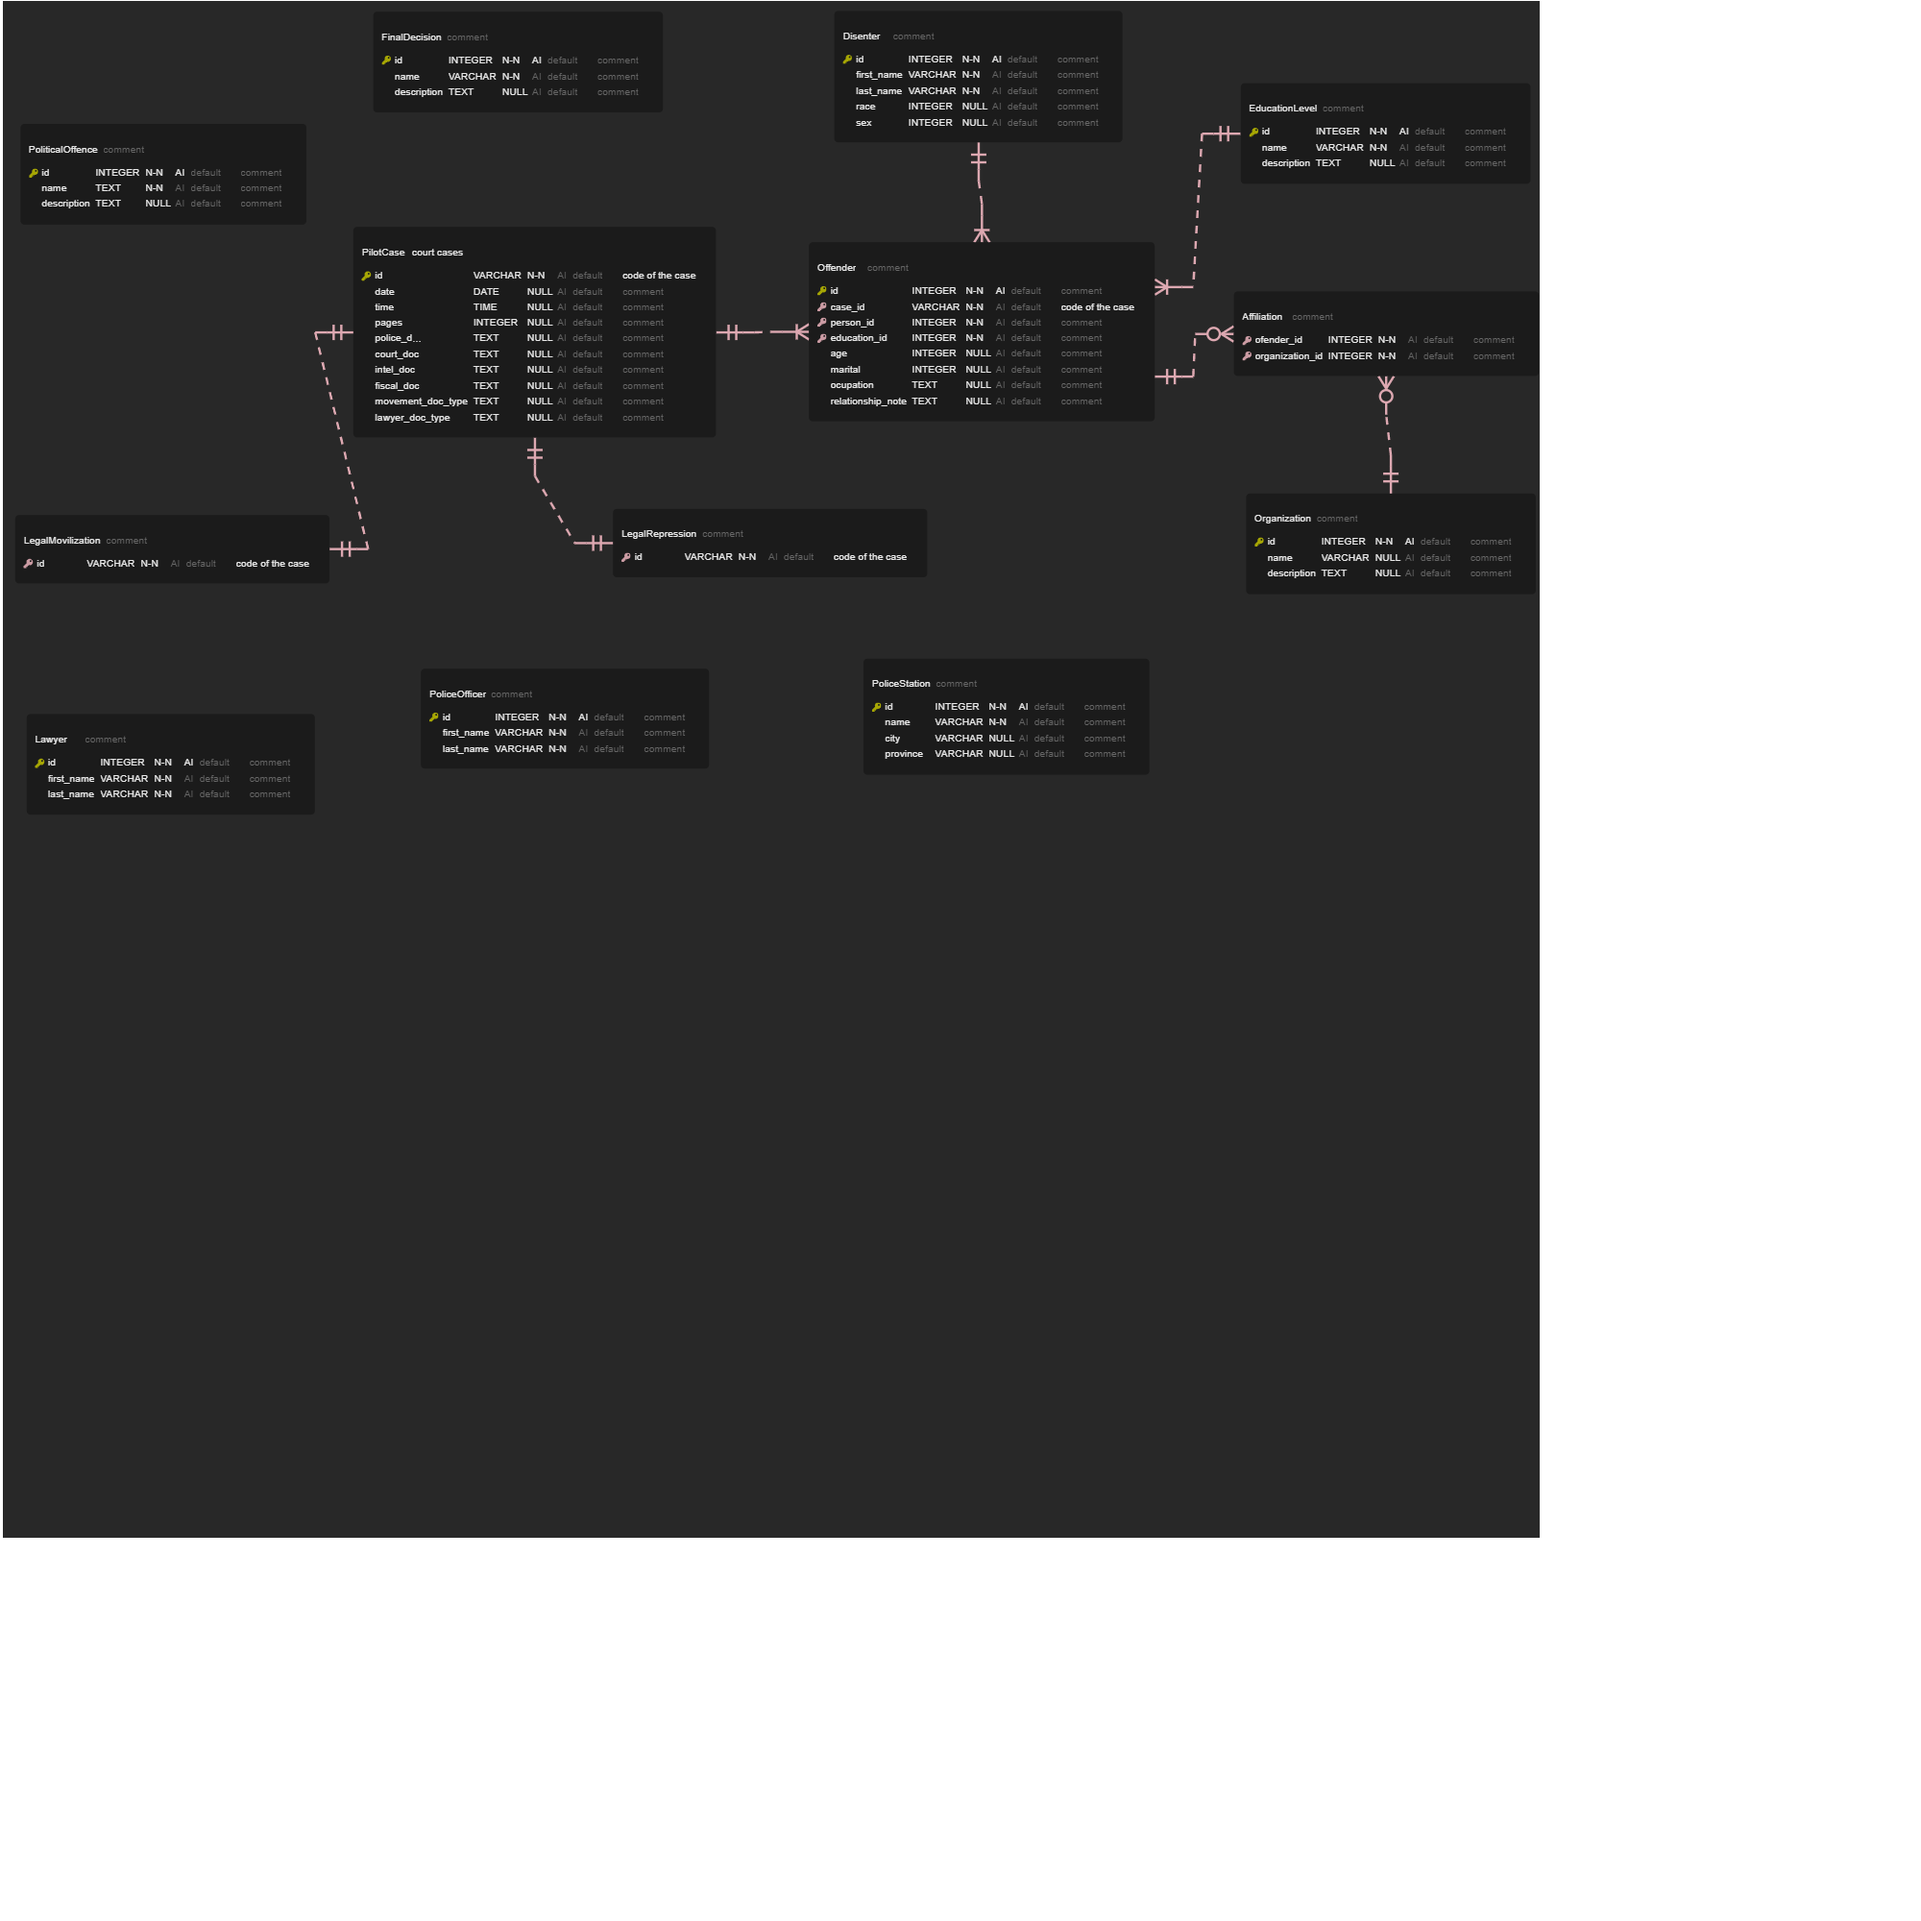
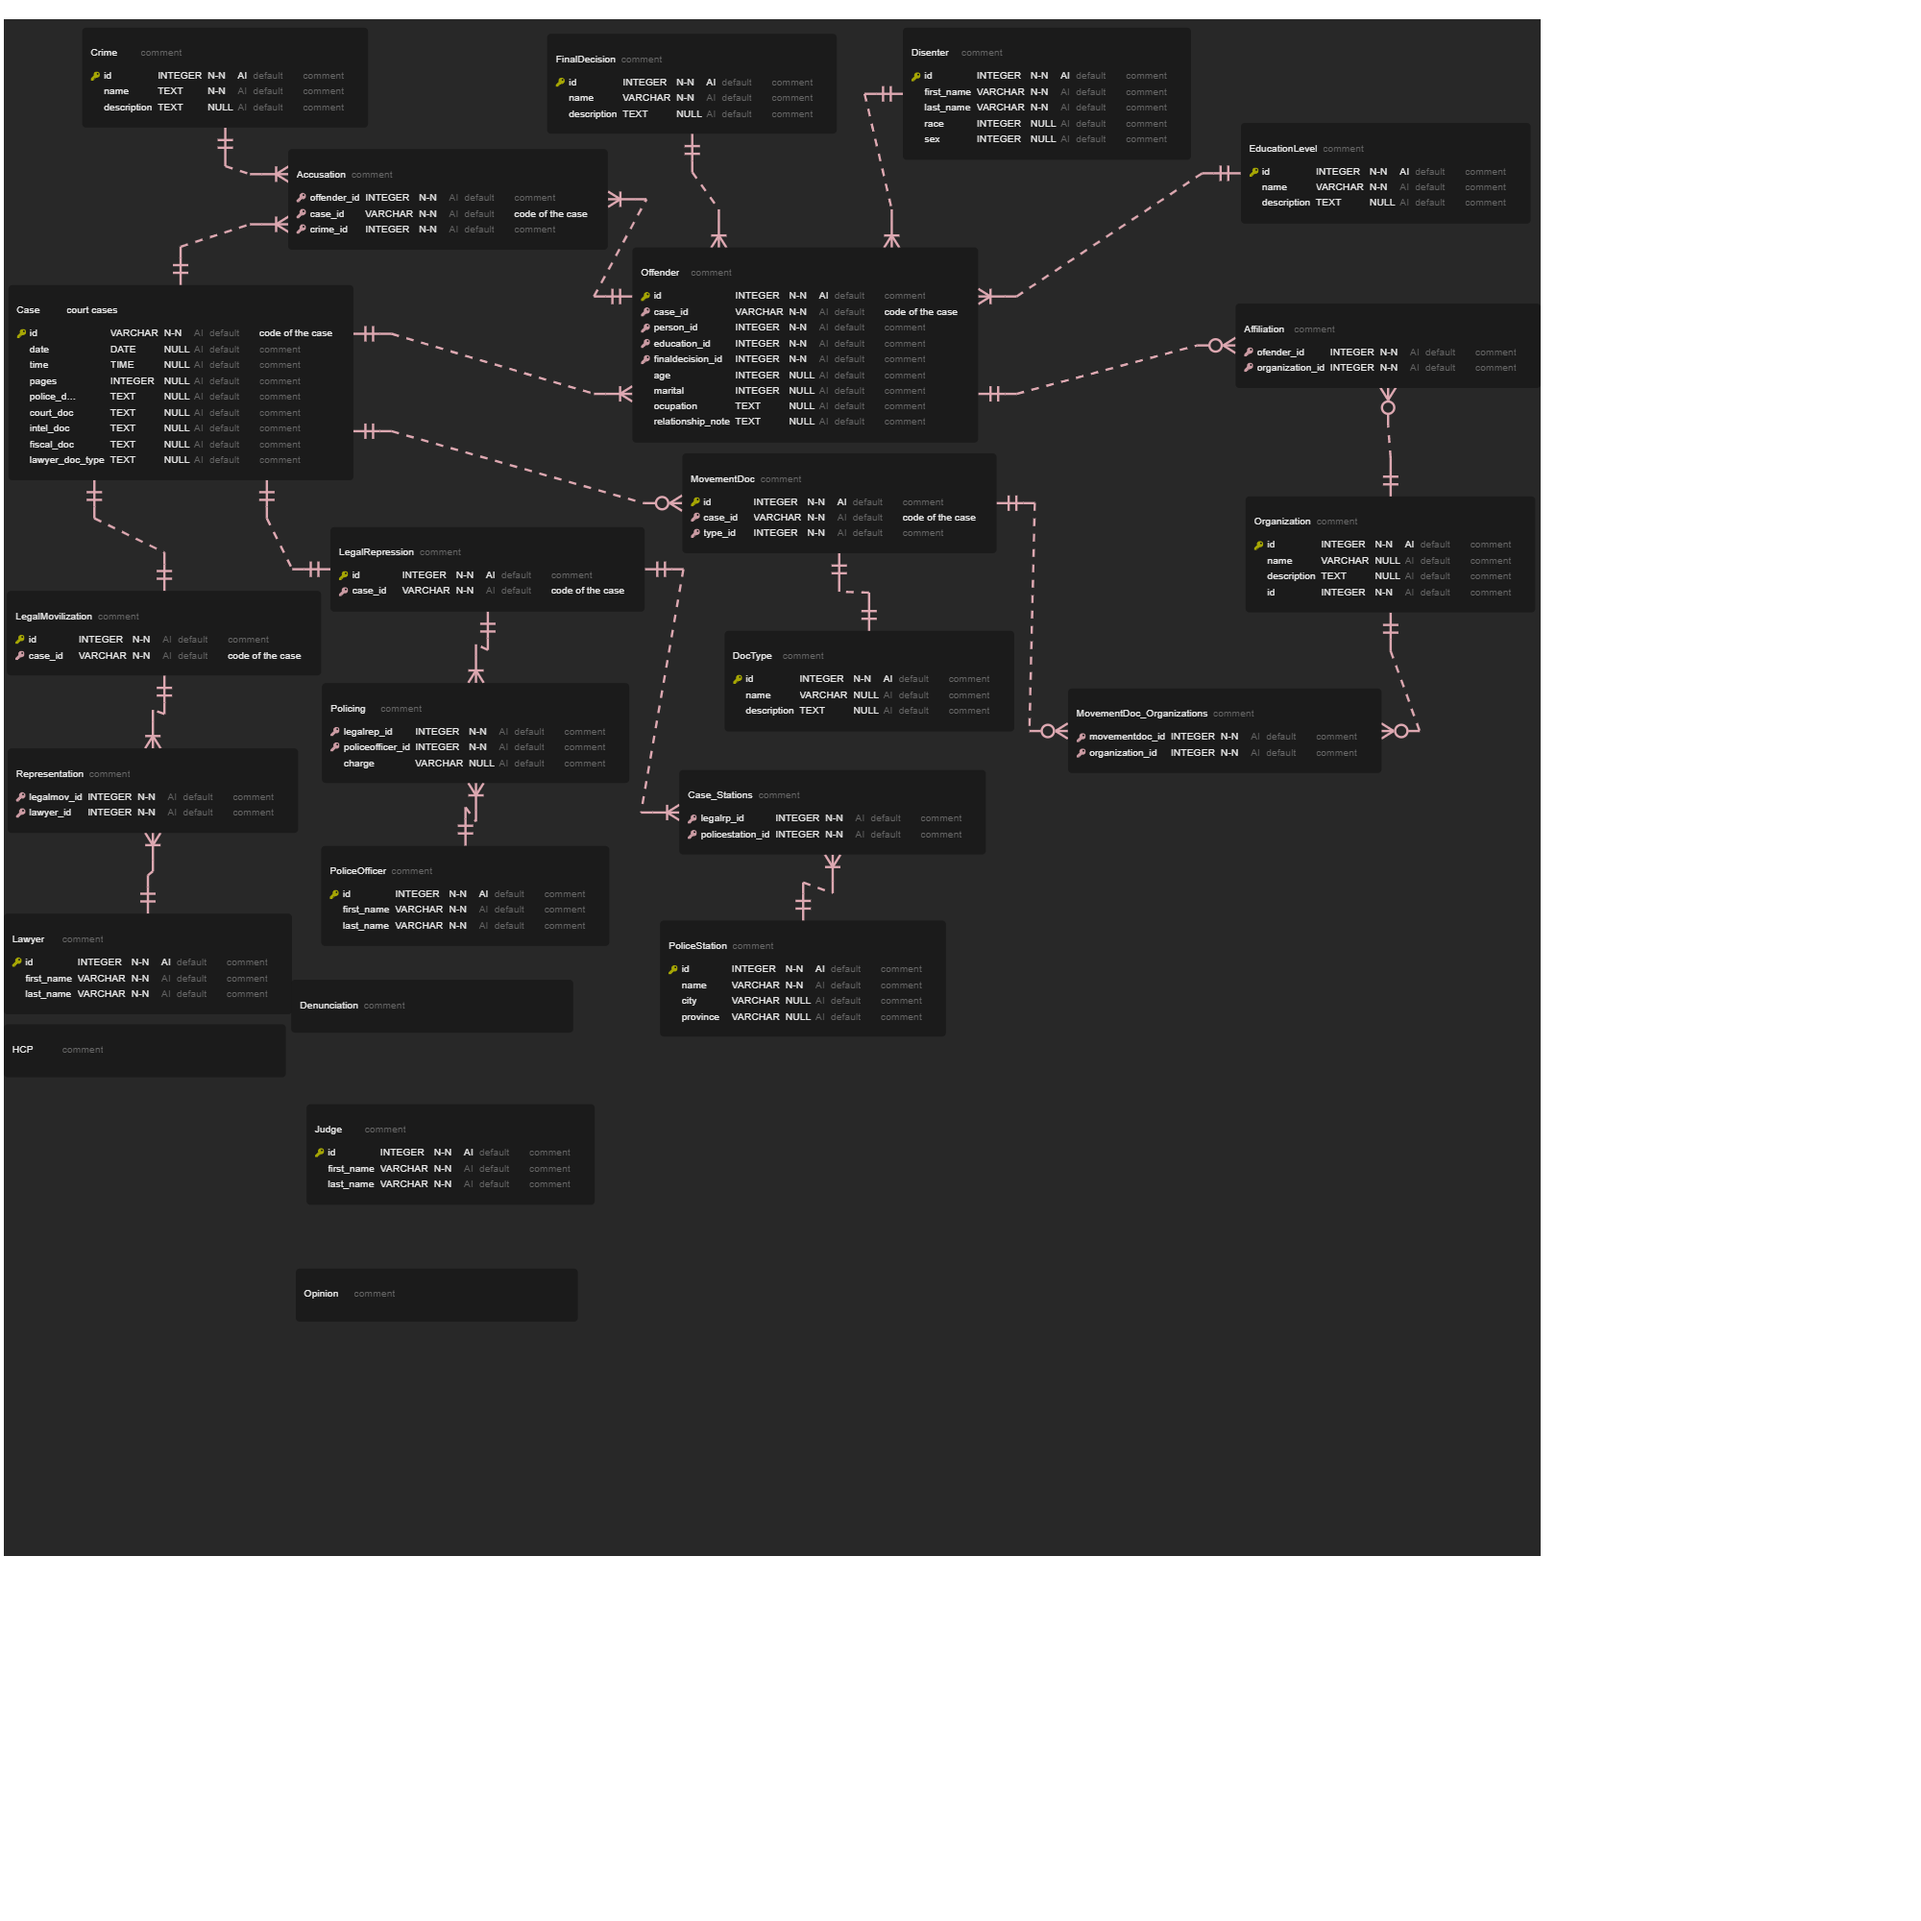
update

diff --git a/database/index.html b/database/index.html
@@ -99,8 +99,9 @@ This database will serve as a novel collection of tactics of legal repression an
 It will also provide a blueprint for collection of state-movement discursive contentions informing oppositional identity formation in periods of social upheaval.</p>
 <h2 id="statistics">Statistics</h2>
 <h2 id="structure">Structure</h2>
+<p><img alt="image" class="center" src="../img/diagram.png" /></p>
 <p>The database is made up of the following tables:</p>
-<p><strong>PilotCase</strong></p>
+<p><strong>Case</strong></p>
 <p><strong>Offender</strong></p>
 <p><strong>EducationLevel</strong></p>
 <p><strong>FinalDecision</strong></p>

diff --git a/index.html b/index.html
@@ -169,5 +169,5 @@
 
 <!--
 MkDocs version : 1.1.2
-Build Date UTC : 2021-04-28 04:07:09.722992+00:00
+Build Date UTC : 2021-04-28 17:24:56.831586+00:00
 -->
